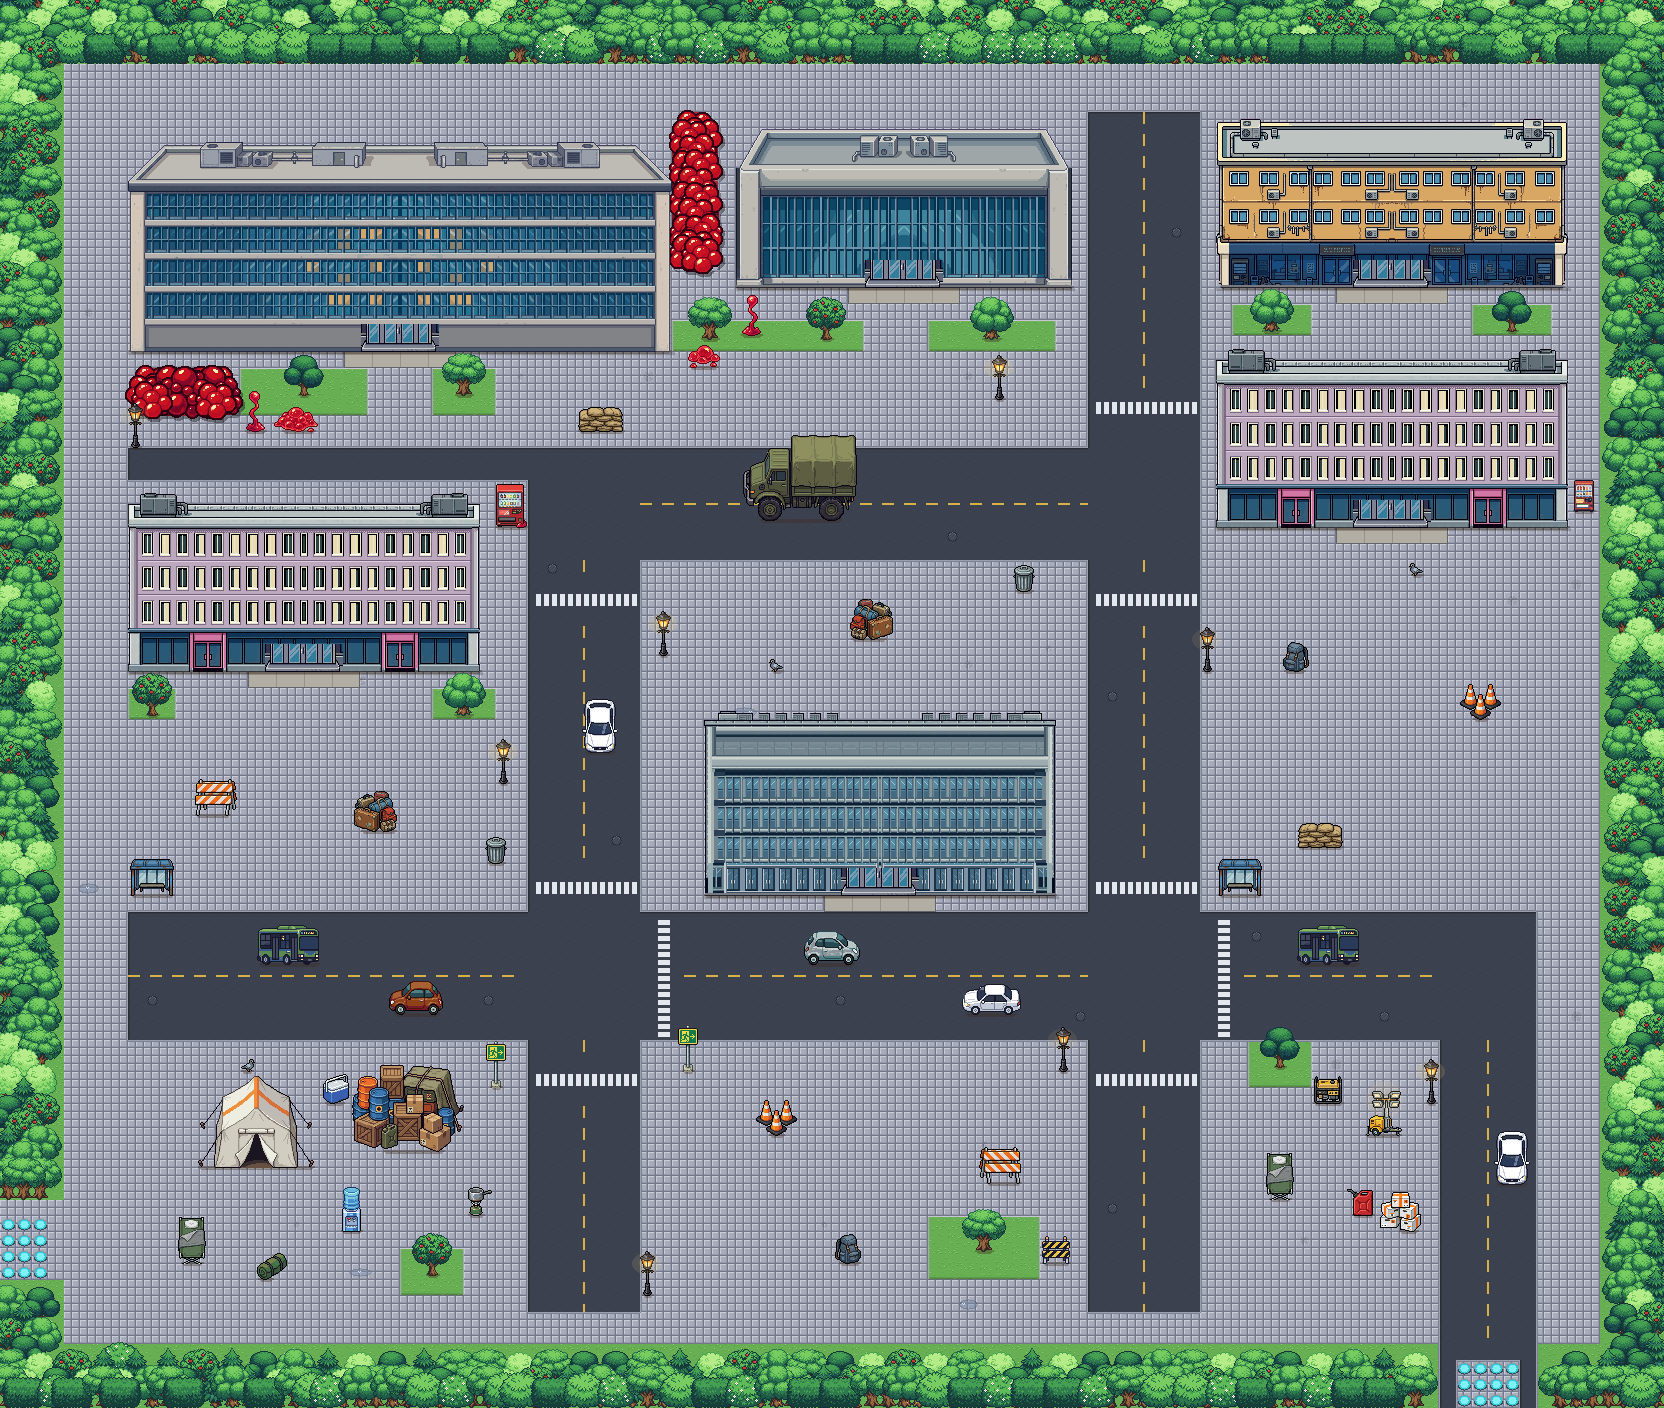
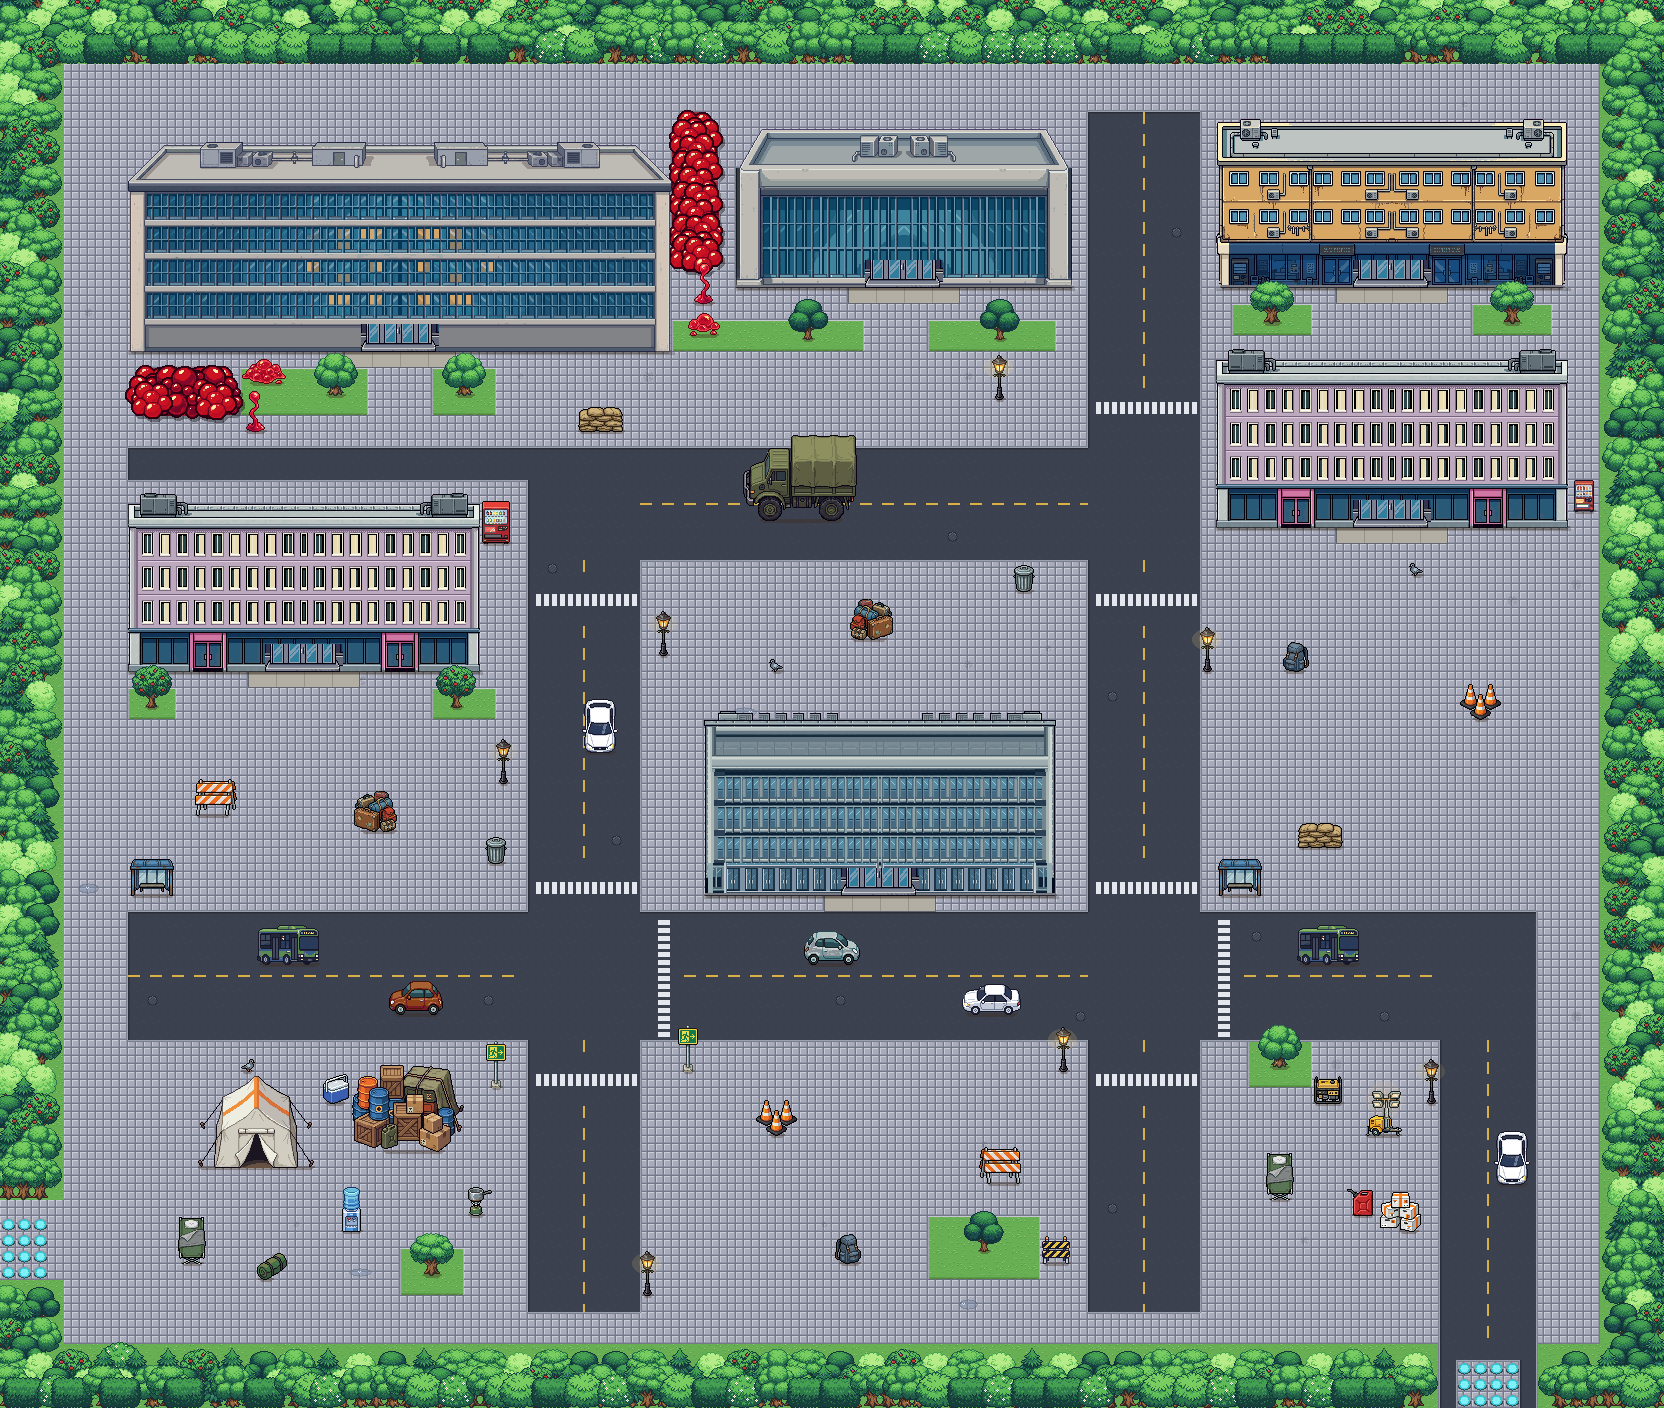
Karte 53 Pruefrunde: Baumpaare gespiegelt zur Tuerachse, Stammfuss auf Beetmitte, Abstand zur D-Reaper-Masse, Automat ohne Fleck
Claude-Session: https://claude.ai/code/session_01SaoYHKhnro4LFcPJqjaPsq

diff --git a/tools/karte53_objekte.py b/tools/karte53_objekte.py
@@ -11,7 +11,7 @@ Gepaeck; D-Reaper-Auslaeufer (Ranken, Blasen) nur direkt an den roten Flecken. R
 import json, math, os, random, shutil, sys
 sys.path.insert(0, os.path.dirname(os.path.abspath(__file__)))
 import numpy as np
-from PIL import Image
+from PIL import Image, ImageFilter
 
 ROOT = os.path.join(os.path.dirname(os.path.abspath(__file__)), '..')
 KARTE = os.path.join(ROOT, 'maps', 'karte53')
@@ -53,7 +53,7 @@ NEU = {'evak/bett': 'karte53/n48/00.png', 'evak/sandsack': 'karte53/n48/01.png',
        'evak/schlafsack': 'karte53/n32/02.png', 'evak/zelt': 'karte53/gross/00.png', 'evak/lkw': 'karte53/gross/01.png',
        'evak/vorrat': 'karte53/gross/02.png',
        'reaper/ranke': 'karte52/n48/06.png', 'reaper/blasen': 'karte52/n48b/06.png', 'reaper/kapsel': 'karte52/n48b/02.png',
-       'k18s/18': 'karte52/n48/00.png', 'k18s/13': 'karte52/n32/06.png', 'k18s/01': 'karte52/n48/07.png',
+       'k18s/18': 'karte52/n48/00.png', 'k18s/13': 'karte52/n32/06.png', 'k18s/01': 'karte53/fix/automat.png',   # roter Fleck am Fuss entfernt (Pruefung)
        'k18s/12': 'karte52/n32/05.png', 'k18s/41': 'karte52/n48b/05.png',
        'k18a/02': 'karte52/n64/02.png', 'k18a/05': 'karte52/n64/03.png'}
 for n_, q in NEU.items():
@@ -159,6 +159,10 @@ def main():
     def schnitt(a, b, rand=0):
         return not (a[2] + rand < b[0] or b[2] + rand < a[0] or a[3] + rand < b[1] or b[3] + rand < a[1])
 
+    # D-Reaper-Masse (Klasse 'r'): Blasen ragen bis 3 px ueber ihre Kacheln -> Objekte halten 6 px Abstand (Pruefung)
+    masse = np.kron(np.array([[c_ == 'r' for c_ in z] for z in cls]), np.ones((T, T), bool))
+    masse_d = np.array(Image.fromarray(masse.astype(np.uint8) * 255).filter(ImageFilter.MaxFilter(13))) > 0
+
     def setze(name, cx, fy, opt=None, spiegeln=False, art='objekt', pruefen=True, klassen='k'):
         if not os.path.exists(os.path.join(OBJ, name + '.png')):
             print('fehlt:', name); return None
@@ -186,8 +190,10 @@ def main():
                 return None
         elif pruefen:
             fuss_r = (r[0], max(r[1], r[3] - T + 1), r[2], r[3])           # vor Gebaeuden zaehlt nur der Fuss
-            if any(schnitt(r, tuple(rr), 1) if (art2 == 'gebaeude' and klassen == 'n') else schnitt(r, tuple(rr), 2) for (*rr, art2) in rects) or \
+            if any(schnitt(fuss_r, tuple(rr), 1) if (art2 == 'gebaeude' and klassen == 'n') else schnitt(r, tuple(rr), 2) for (*rr, art2) in rects) or \
                     any(schnitt(r, t_, 0) for t_ in tps):
+                return None
+            if not name.startswith('reaper/') and masse_d[max(0, r[1]):r[3] + 1, max(0, r[0]):r[2] + 1].any():
                 return None
             # ganzes Bildrechteck auf erlaubtem Boden (untere zwei Reihen; liegende ganz) - Pruefliste K44
             ry0 = r[1] // T if (opt or {}).get('liegend') else max(r[1] // T, r[3] // T - 1)
@@ -257,21 +263,57 @@ def main():
     k43.R, k43.C = rows, cols
     beete = [t_ for t_ in k43.flaechen(gk == 'n')]
     arten = ['k01/baum00', 'k01/baum02', 'k01/baum01', 'k01/baum04']
-    nb = 0
+    hw_ = {a_: (lambda b: (b[2] - b[0]) / 2.0 + 1)(Image.open(os.path.join(OBJ, a_ + '.png')).getbbox()) for a_ in arten}
+    gebs = [rr for rr in rects if rr[4] == 'gebaeude']
+    info = []
     for teil in beete:
         ys_ = [p_[0] for p_ in teil]; xs_ = [p_[1] for p_ in teil]
         y0, y1, x0, x1 = min(ys_), max(ys_), min(xs_), max(xs_)
         if y0 < P or y1 >= rows - P:
+            continue
+        gi = next((i for i, g in enumerate(gebs) if g[0] <= (x0 + x1 + 1) * T / 2.0 <= g[2]
+                   and 0 <= y0 * T - g[3] <= 3 * T), None)              # Beetmitte vor der Fassade
+        info.append((y0, y1, x0, x1, gi))
+    nb = 0
+    erledigt = set()
+    # Beete vor einem Gebaeude: Baumpaare exakt gespiegelt zur Gebaeude-/Tuerachse, Stammfuss auf der Beetmitte (Pruefung)
+    for gi, g in enumerate(gebs):
+        teile = [t_ for t_ in info if t_[4] == gi]
+        achse = (g[0] + g[2] + 1) / 2.0
+        li = [t_ for t_ in teile if (t_[2] + t_[3] + 1) * T / 2.0 < achse]
+        re = [t_ for t_ in teile if (t_[2] + t_[3] + 1) * T / 2.0 > achse]
+        if not li or not re:
+            continue
+        L = max(li, key=lambda t_: t_[3] - t_[2]); R = max(re, key=lambda t_: t_[3] - t_[2])
+        art_ = arten[nb % len(arten)]; hw = hw_[art_]
+        d0 = max(achse - ((L[3] + 1) * T - hw), (R[2] * T + hw) - achse)       # beide Fuesse im Beet
+        d1 = min(achse - (L[2] * T + hw), ((R[3] + 1) * T - hw) - achse)
+        if d1 < d0:
+            continue
+        fy = L[0] * T + (L[1] - L[0] + 1) * T // 2 + 3
+        ds = [(d0 + d1) / 2.0] if d1 - d0 < 6 * T else [d0 + (d1 - d0) * 0.2, d0 + (d1 - d0) * 0.8]
+        for j, d in enumerate(ds):
+            a_ = arten[(nb + j) % len(arten)]
+            for dd in (0, 8, -8, 16, -16):
+                n0 = len(objekte)
+                if setze(a_, achse - d - dd, fy, {'anim': 'baum'}, False, klassen='n') and \
+                        setze(a_, achse + d + dd, fy, {'anim': 'baum'}, True, klassen='n'):
+                    break
+                del objekte[n0:]; del rects[n0:]
+        nb += len(ds)
+        erledigt.update([L, R])
+    for (y0, y1, x0, x1, gi) in info:
+        if (y0, y1, x0, x1, gi) in erledigt:
             continue
         fy = y0 * T + (y1 - y0 + 1) * T // 2 + 3
         breite = x1 - x0 + 1
         anteile = (0.5,) if breite < 9 else (0.2, 0.8) if breite < 18 else (0.12, 0.45, 0.88)
         for j, f in enumerate(anteile):
             art_ = arten[(nb + j) % len(arten)]
-            hw = (lambda b: (b[2] - b[0]) / 2.0 + 1)(Image.open(os.path.join(OBJ, art_ + '.png')).getbbox())
+            hw = hw_[art_]
             cx = min(max(x0 * T + f * breite * T, x0 * T + hw), (x1 + 1) * T - hw)
-            for dy_, dx in [(dy_, dx) for dy_ in (0, 8, 12) for dx in (0, -16, 16, -32, 32)]:
-                if setze(art_, cx + dx, fy + dy_, {'anim': 'baum'}, (nb + j) % 2 == 1, klassen='n'):
+            for dx in (0, -16, 16, -32, 32):
+                if setze(art_, cx + dx, fy, {'anim': 'baum'}, (nb + j) % 2 == 1, klassen='n'):
                     break
         nb += len(anteile)
     # ---------------------------------------------------------------- Fahrzeuge (verlassen, Linksverkehr)
